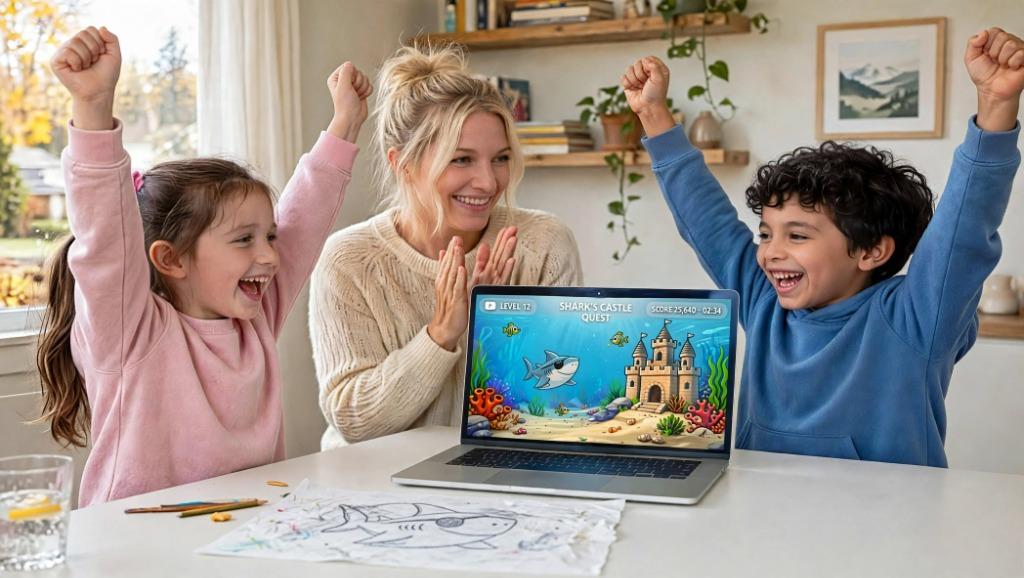
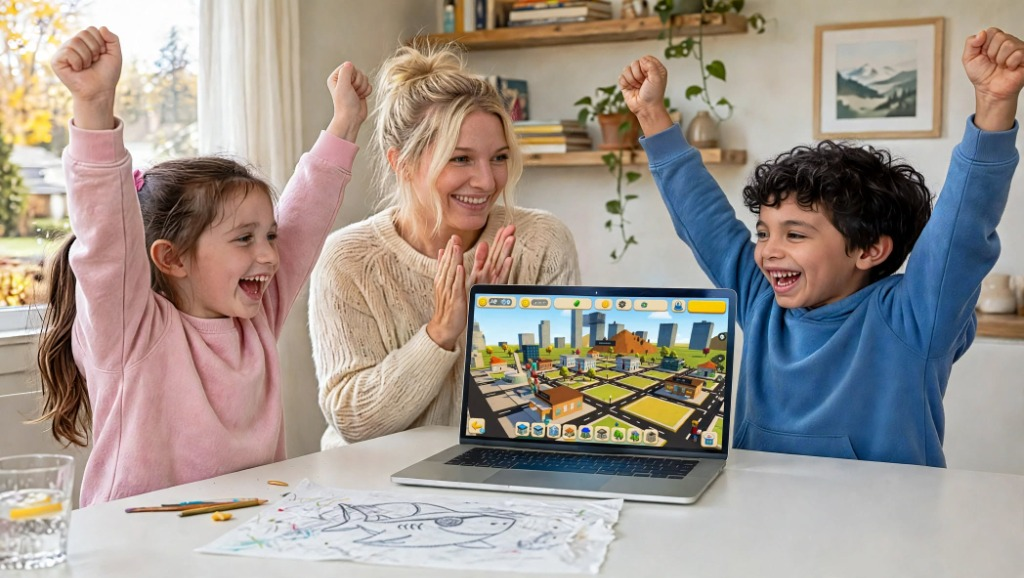
Update hero image to latest version with 3D city builder game on laptop

diff --git a/index.html b/index.html
@@ -743,7 +743,7 @@
         </div>
       </div>
       <div class="hero-media">
-        <img src="hero-kids.jpg" alt="Mother and her two children celebrating excitedly by the laptop showing their finished shark game" width="1024" height="578" loading="eager" fetchpriority="high" />
+        <img src="hero-kids.jpg" alt="Mother and her two children celebrating excitedly by the laptop showing their finished game" width="1024" height="578" loading="eager" fetchpriority="high" />
       </div>
       <ul class="trust">
         <li><i data-lucide="badge-check"></i>No tech skills needed</li>
